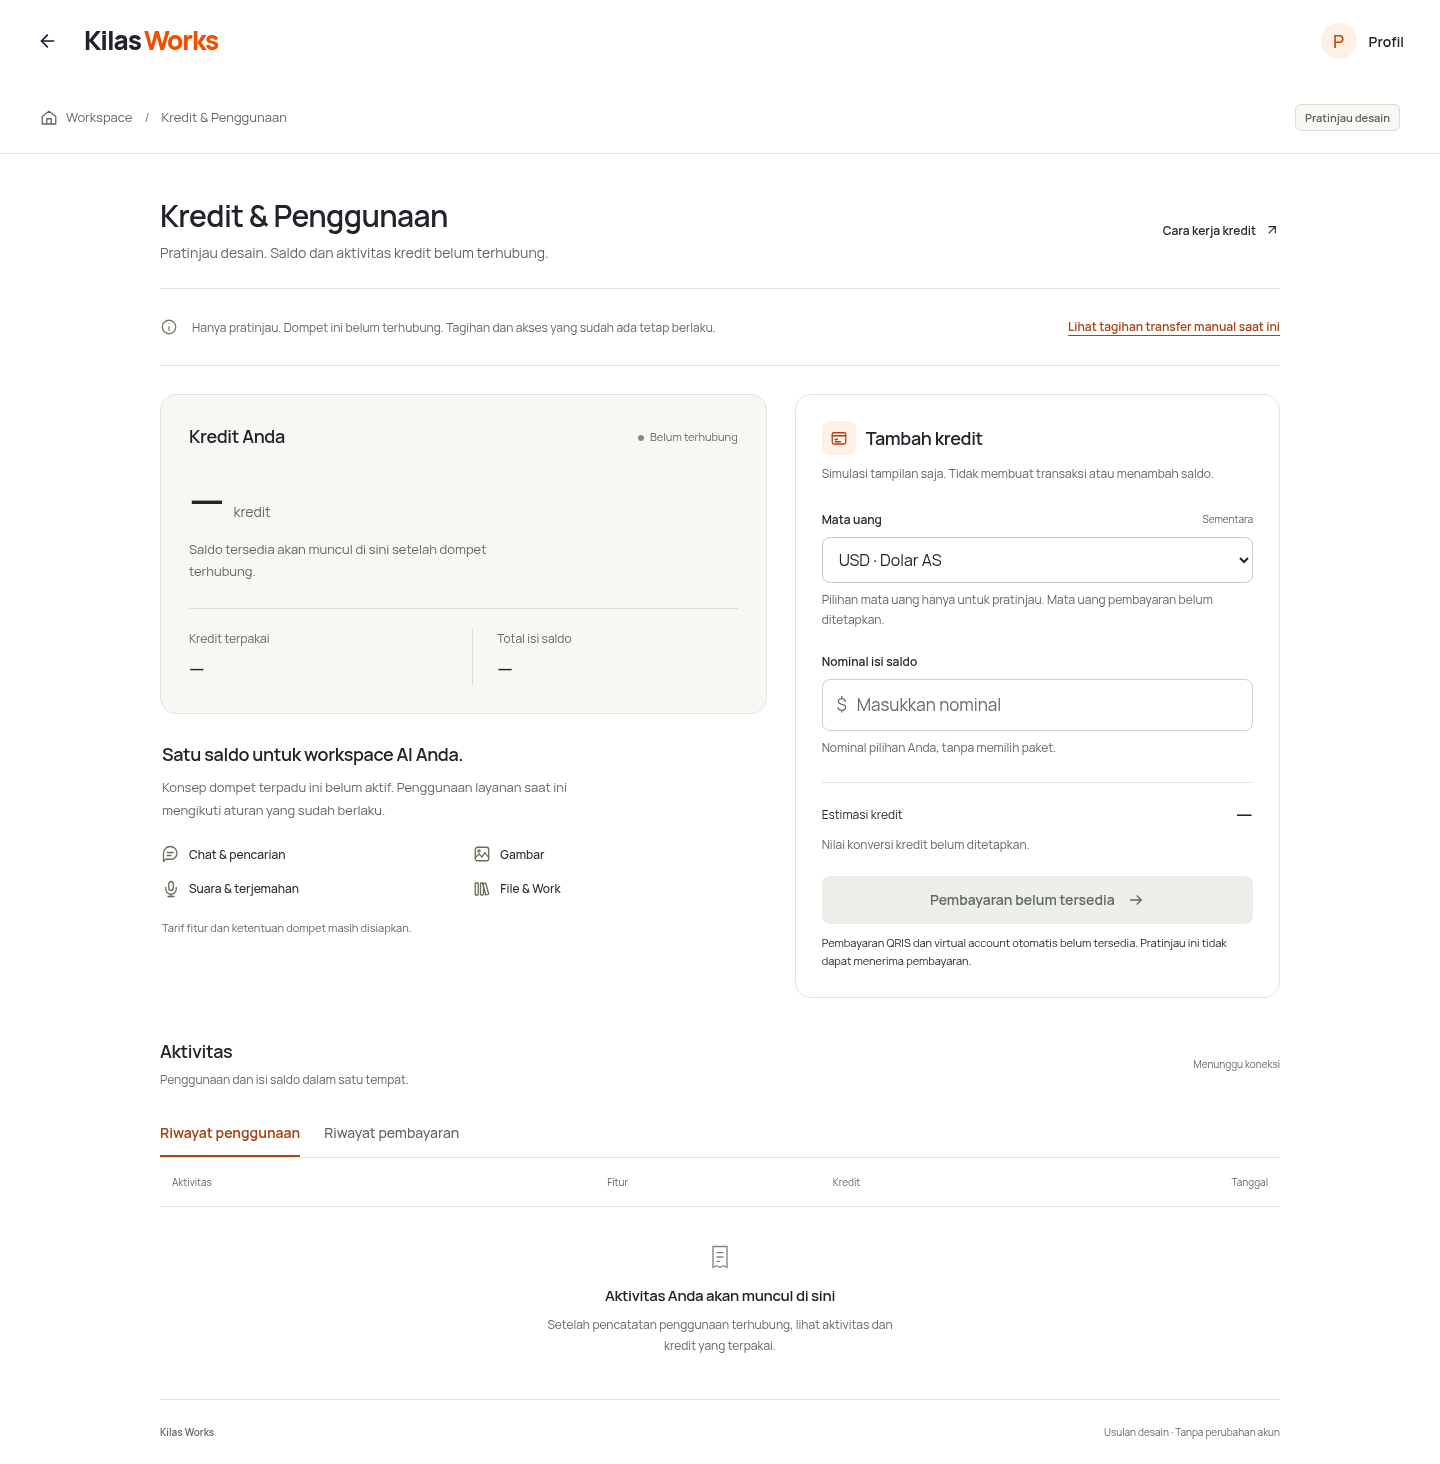
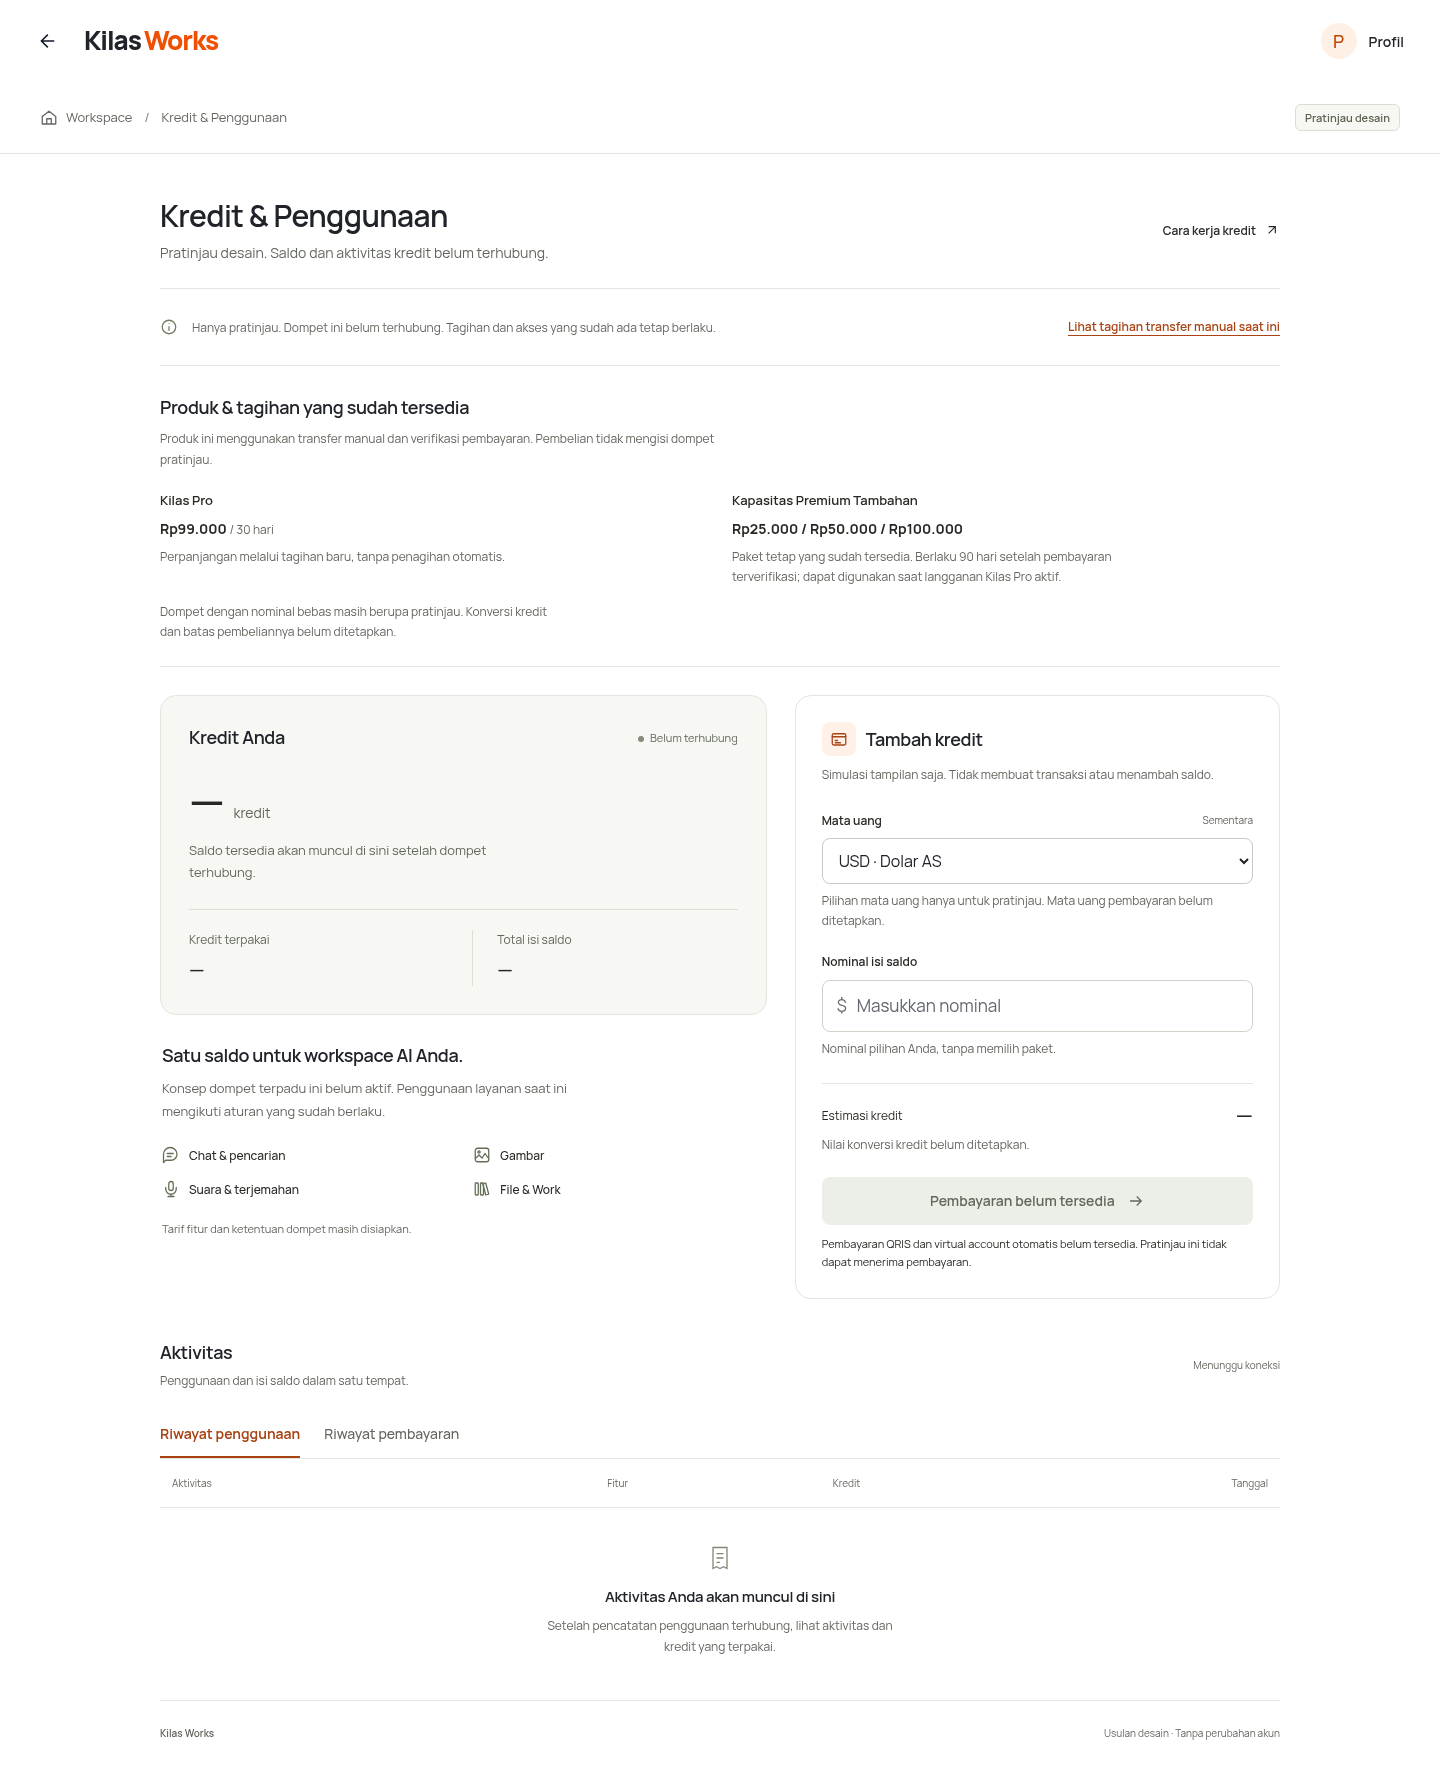
Show authoritative existing products alongside wallet preview

diff --git a/client-hub/templates/kilas_ai/credits_usage_preview.html b/client-hub/templates/kilas_ai/credits_usage_preview.html
@@ -22,6 +22,18 @@
       <header class="credits-heading"><div><h1>{{ ui_t('Credits & Usage') }}</h1><p>{{ ui_t('Pratinjau desain. Saldo dan aktivitas kredit belum terhubung.') }}</p></div><a class="credits-help-link" href="#credits-how">{{ ui_t('How credits work') }}<svg viewBox="0 0 24 24" width="16" height="16" fill="none" stroke="currentColor" stroke-width="1.7" aria-hidden="true"><path d="m7 17 10-10M7 7h10v10"/></svg></a></header>
       <div class="credits-preview-note"><svg viewBox="0 0 24 24" width="18" height="18" fill="none" stroke="currentColor" stroke-width="1.7" aria-hidden="true"><circle cx="12" cy="12" r="9"/><path d="M12 11v6m0-10v1"/></svg><p>{{ ui_t('Preview only. This wallet is not connected. Existing billing and access are unchanged.') }}</p><a href="{{ url_for('kilas_ai.usage_page',view='legacy') }}">{{ ui_t('View existing manual billing') }}</a></div>
 
+      {% if current_billing is defined %}
+      <section class="credits-current-billing" aria-labelledby="credits-current-title">
+        <h2 id="credits-current-title">{{ ui_t('Existing products & billing') }}</h2>
+        <p>{{ ui_t('These existing products use manual transfer and payment review. They do not fund the preview wallet.') }}</p>
+        <dl>
+          <div><dt>{{ ui_t('Kilas Pro') }}</dt><dd><strong>Rp{{ '{:,.0f}'.format(current_billing.subscription_amount_idr).replace(',', '.') }}</strong> <span>{{ ui_t('/ 30 days') }}</span></dd><dd class="credits-product-detail">{{ ui_t('Renewal uses a new invoice, not an automatic charge.') }}</dd></div>
+          <div><dt>{{ ui_t('Additional Premium Capacity') }}</dt><dd><strong>{% for amount in current_billing.capacity_amounts_idr %}Rp{{ '{:,.0f}'.format(amount).replace(',', '.') }}{% if not loop.last %} / {% endif %}{% endfor %}</strong></dd><dd class="credits-product-detail">{{ ui_t('Existing fixed packs. Valid for 90 days after verified payment; usable with an active Kilas Pro subscription.') }}</dd></div>
+        </dl>
+        <p class="credits-product-detail">{{ ui_t('The custom-amount wallet remains a preview. Its credit conversion and purchase limits are not set.') }}</p>
+      </section>
+      {% endif %}
+
       <div class="credits-overview">
         <div class="credits-overview-main">
           <section class="credits-balance" aria-labelledby="credits-balance-title">

diff --git a/client-hub/static/kilas_credits_preview.css b/client-hub/static/kilas_credits_preview.css
@@ -87,3 +87,12 @@
 .credits-design-preview .credits-preview-note a{display:inline-flex;align-items:center;min-height:44px;margin-left:0;font-size:12px;line-height:1.5;text-underline-offset:4px}
 .credits-design-preview .credits-payment-help{font-size:12px;line-height:1.7;text-align:left}
 @media(max-width:1100px){.credits-design-preview .credits-preview-note{grid-template-columns:18px minmax(0,1fr);align-items:start}.credits-design-preview .credits-preview-note a{grid-column:2;justify-self:start}.credits-design-preview .credits-preview-note svg{margin-top:3px}}
+
+.credits-design-preview .credits-current-billing{margin:0 0 28px;padding:0 0 24px;border-bottom:1px solid var(--credits-line)}
+.credits-design-preview .credits-current-billing>p{margin-top:8px;font-size:12px;line-height:1.7;color:var(--credits-muted);max-width:80ch}
+.credits-design-preview .credits-current-billing dl{display:grid;grid-template-columns:1fr 1fr;gap:24px;margin:20px 0 14px}
+.credits-design-preview .credits-current-billing dt{font-size:13px;font-weight:600;margin-bottom:6px}
+.credits-design-preview .credits-current-billing dd{margin:0;font-size:14px;line-height:1.7}
+.credits-design-preview .credits-current-billing dd span{font-size:12px;color:var(--credits-muted)}
+.credits-design-preview .credits-current-billing .credits-product-detail{font-size:12px;line-height:1.7;color:var(--credits-muted);margin-top:6px;max-width:54ch}
+@media(max-width:760px){.credits-design-preview .credits-current-billing dl{grid-template-columns:1fr;gap:18px}.credits-design-preview .credits-current-billing h2{font-size:17px}}

diff --git a/client-hub/tests/test_kilas_ai_single_plan_console.py b/client-hub/tests/test_kilas_ai_single_plan_console.py
@@ -45,6 +45,23 @@ class SinglePlanConsoleTests(unittest.TestCase):
         client.set_cookie('kilas_language', 'id')
         return client
 
+    def test_preview_product_summary_uses_authoritative_prices_without_orders(self):
+        client = self.client_for(self.other)
+        before = topups.owner_orders(self.other)
+        from kilas_ai import billing
+        invoices = billing.owner_invoices(self.other)
+        with patch.dict(usage.PLANS['PLUS'], price=123456), patch.dict(topups.PACKS, MINI=34567):
+            body = client.get('/kilas-ai/usage').get_data(as_text=True)
+        self.assertIn('Rp123.456', body)
+        self.assertIn('Rp34.567', body)
+        self.assertIn('transfer manual', body)
+        self.assertIn('90 hari', body)
+        self.assertNotIn('action="/kilas-ai/checkout"', body)
+        self.assertNotIn('action="/kilas-ai/topups"', body)
+        self.assertNotIn('Irvan Karnawi', body)
+        self.assertEqual(topups.owner_orders(self.other), before)
+        self.assertEqual(billing.owner_invoices(self.other), invoices)
+
     def test_customer_offer_and_amount_validation(self):
         client = self.client_for(self.owner)
         preview = client.get("/kilas-ai/usage").get_data(as_text=True)

diff --git a/client-hub/kilas_ai/routes.py b/client-hub/kilas_ai/routes.py
@@ -89,6 +89,8 @@ def usage_page():
     return render_template(template, subscription=usage.effective_plan(session["user_id"]), subscription_expired=expired,
                            capacity=capacity.summary(session["user_id"]), view='settings',
                            audio_balance=audio_store.balance(session["user_id"]), audio_packs=audio_store.PACKS,
+                           current_billing={"subscription_amount_idr": usage.PLANS["PLUS"]["price"],
+                                            "capacity_amounts_idr": tuple(topups.PACKS.values())},
                            invoices=billing.owner_invoices(session["user_id"]),
                            topup_orders=topups.owner_orders(session["user_id"]))
 

diff --git a/client-hub/scripts/preview_credits_usage.py b/client-hub/scripts/preview_credits_usage.py
@@ -25,7 +25,8 @@ def create_preview():
         return render_template('kilas_ai/credits_usage_preview.html',
                                home_ai={'history_items': []}, view='settings',
                                kilas_profile_email='Preview account', credits_design_preview=True,
-                               ui_messages={})
+                               ui_messages={}, current_billing={"subscription_amount_idr": 99000,
+                                   "capacity_amounts_idr": (25000, 50000, 100000)})
 
     app.add_url_rule('/kilas-ai/usage', 'kilas_ai.usage_page', page)
 

diff --git a/docs/KILAS_XENDIT_NEXT_STEPS_20261104.md b/docs/KILAS_XENDIT_NEXT_STEPS_20261104.md
@@ -1,0 +1,49 @@
+# Checkout implementation findings — 2026-11-04
+
+## Implemented now
+
+The authenticated Credit & Usage preview now includes a read-only existing-product summary. Amounts come from `usage.PLANS['PLUS']['price']` and `topups.PACKS` in the real route, not duplicated UI prices. The local screenshot app uses synthetic fixture values and never imports the application or queries accounts. The summary identifies manual transfer/review, 30-day subscription billing and 90-day fixed capacity packs. It does not offer a new purchase action, replace the custom-amount preview, expose bank details or define numeric wallet credits. Existing invoice links and payment handlers are unchanged.
+
+## Source facts, not new offers
+
+| Item | Current implementation | Evidence |
+| --- | --- | --- |
+| Customer-facing Kilas Pro | Rp99,000 / 30 days; new invoice on renewal | `templates/kilas_ai/usage.html`, `kilas_ai/billing.py:review` |
+| Internal identifier for that offer | PLUS, not PRO; gateway hardcodes PLUS | `kilas_ai/payment_gateways.py:ManualTransfer.subscription`, `kilas_ai/usage.py:PLANS` |
+| Fixed capacity packs | MINI Rp25,000; EXTRA Rp50,000; POWER Rp100,000; 90 days after verified payment | `kilas_ai/topups.py:PACKS`, `create_order`, `review` |
+| Other retained plan records | PRO Rp149,000; MAX Rp299,000; not selected by current subscription checkout | `kilas_ai/usage.py:PLANS`, `payment_gateways.py` |
+| Old custom-amount helper | Integer IDR 20,000–100,000,000, 365-day expiry; no production caller found | `kilas_ai/topups.py:create_custom_order`, `review`; callers are tests |
+| Audio is separate | 60 sec Rp19,000; 300 sec Rp89,000; 600 sec Rp169,000 | `kilas_ai/audio_store.py:PACKS`, `audio_billing.py` |
+| New custom-amount wallet | Design-only, no rate or purchase min/max; no authoritative universal credit balance | `templates/kilas_ai/credits_usage_preview.html`, `docs/KILAS_CREDITS_USAGE_DESIGN_20261021.md` |
+
+Pack allowances and custom-order budget ratios are internal provider-cost accounting. They must not be advertised as customer credit units or a rupiah-to-credit exchange rate. The old custom helper's limits and expiry are not authorization for the proposed wallet. Preserve custom-amount intent; the fixed-pack summary describes the existing system only.
+
+Existing terms and privacy templates already contain business contact `kilasworks@gmail.com`. This is repository evidence, not independent ownership verification. Their general subscription paragraph defers specific payment terms to the applicable product/invoice. It does not define the new wallet's refund, expiry, transferability, conversion, minimum/maximum, tax/fee treatment or failed-job charging policy. Do not invent those terms or adopt provider terms on the owner's behalf.
+
+## Smallest practical automated checkout
+
+Recommendation for a first integration: use the already defined products, if the owner confirms that is the initial automated-payment scope. Alternatively, retain the requested custom-amount wallet as the first target, but decide its actual entitlement semantics first. A hosted checkout alone does not define what a payment buys.
+
+Xendit's current [session overview](https://docs.xendit.co/docs/payment-sessions-overview) and [one-time flow](https://docs.xendit.co/v1/docs/payment-1) support server-side `POST /sessions`, `session_type=PAY`, `mode=PAYMENT_LINK`, IDR/ID, followed by redirect to the returned `payment_link_url`. Use automatic capture and disable saved payment methods; do not turn a 30-day manually renewed product into automatic recurring billing. [Create-session API](https://docs.xendit.co/apidocs/create-session).
+
+Implementation still required:
+
+1. Freeze the purchase amount, currency, product/entitlement version and owner in a local pending order. Add provider/session/payment references and test/live mode in separate persistence, keeping old manual invoices distinct. Gateway protocol currently returns only a local integer invoice ID; it needs a deliberate hosted-session handoff, not an unconditional adapter swap.
+2. Create/reuse a session server-side. Handle timeouts and uncertain creation without blindly making duplicate orders. Store provider references/expiry, restrict redirects to the trusted provider response and keep sensitive customer fields out of logs. Never derive a charge from browser-submitted prices.
+3. Authenticate callbacks and verify business, session, reference, amount, currency and actual captured success. The [session callback schema](https://docs.xendit.co/apidocs/webhook-notification-sent-defined-webhook-url-updates-payment-session) identifies completed/expired sessions; [payment callbacks](https://docs.xendit.co/apidocs/payment-webhook-notification) supply payment/capture evidence. Session completion alone is not sufficient for unrelated SAVE/authorization flows. Xendit's [webhook handling guidance](https://docs.xendit.co/docs/handling-webhooks) documents callback tokens, duplicates, retries and out-of-order delivery.
+4. Apply entitlement exactly once inside a database transaction, uniquely keyed by payment/order. Extract the existing grant logic behind a trusted settlement boundary; do not impersonate a KILAS_ADMIN or fabricate an uploaded proof to call today's `review` function. Browser return pages only read status.
+5. Reconcile pending/uncertain orders through authenticated [GET /sessions/{session_id}](https://docs.xendit.co/apidocs/get-session) and correlated payment evidence. Define expiry/late-payment handling; retain an auditable exception queue rather than silently losing money or granting twice.
+6. Mock-test tampered prices, foreign owners, forged callbacks, duplicate/late/out-of-order events, retries/timeouts, currency/amount mismatch, captured vs authorized state, cancellation, reconciliation and double-grant prevention before separately authorized provider testing/live activation.
+
+## Exact outstanding decisions and access
+
+- **Product decision (pending):** automate existing Pro/fixed capacity first, or implement the new custom-amount wallet first? The latter needs a customer-facing credit definition, conversion/rates, IDR min/max and increments, expiry/refund rules, fees/tax and usage debit semantics. Do not infer these from internal budgets or old custom orders.
+- **Account/channels (unknown, not proven inactive):** owner-side Xendit account verification and availability of the chosen QRIS/VA channels have not been inspected. [Xendit's checklist](https://docs.xendit.co/docs/payments-integration-setup) requires activated live channels and separate test/live credentials; inactive channels fail. Approved amounts must also meet each selected channel's limits, which have not been confirmed for this account.
+- **Secrets/access (not configured by this work):** no Xendit adapter or referenced Xendit configuration exists in inspected application code. Existing secret availability is unknown; no secret values were requested or inspected. An authorized operator must later securely supply the permitted API credential, callback verification token and merchant/business identity, and configure the callback endpoint. Creating credentials/persistent access is outside the current permission.
+- **Business/legal (pending confirmation):** confirm legal entity spelling against registration and company bank-holder records; confirm the full office address is appropriate for verification; confirm existing support email/contact and supply the approved wallet/checkout-specific policies. Company Bank Mega settlement setup remains a separate owner-side action. Public contact publication does not configure settlement.
+
+No provider API call, payment, credential creation, bank replacement, Xendit submission or agreement acceptance was performed. Backend integration remains real engineering work; mock-only scaffolding without agreed entitlement semantics would not make checkout ready.
+
+## Validation of this read-only addition
+
+Single-plan/console suite passes (6 tests), including existing ledger-preservation and authentication checks and a new regression that varies authoritative prices and verifies rendered values without creating invoices/orders. Manual billing suite passes (2 tests). Credit & Usage browser suite passes 10 size/language cases, retaining custom input validation, disabled payment, keyboard tabs and zero network writes. Updated desktop/mobile screenshots and report are under `docs/qa/business-payment-20261104/`. No provider integration is exercised or claimed by these local checks.
